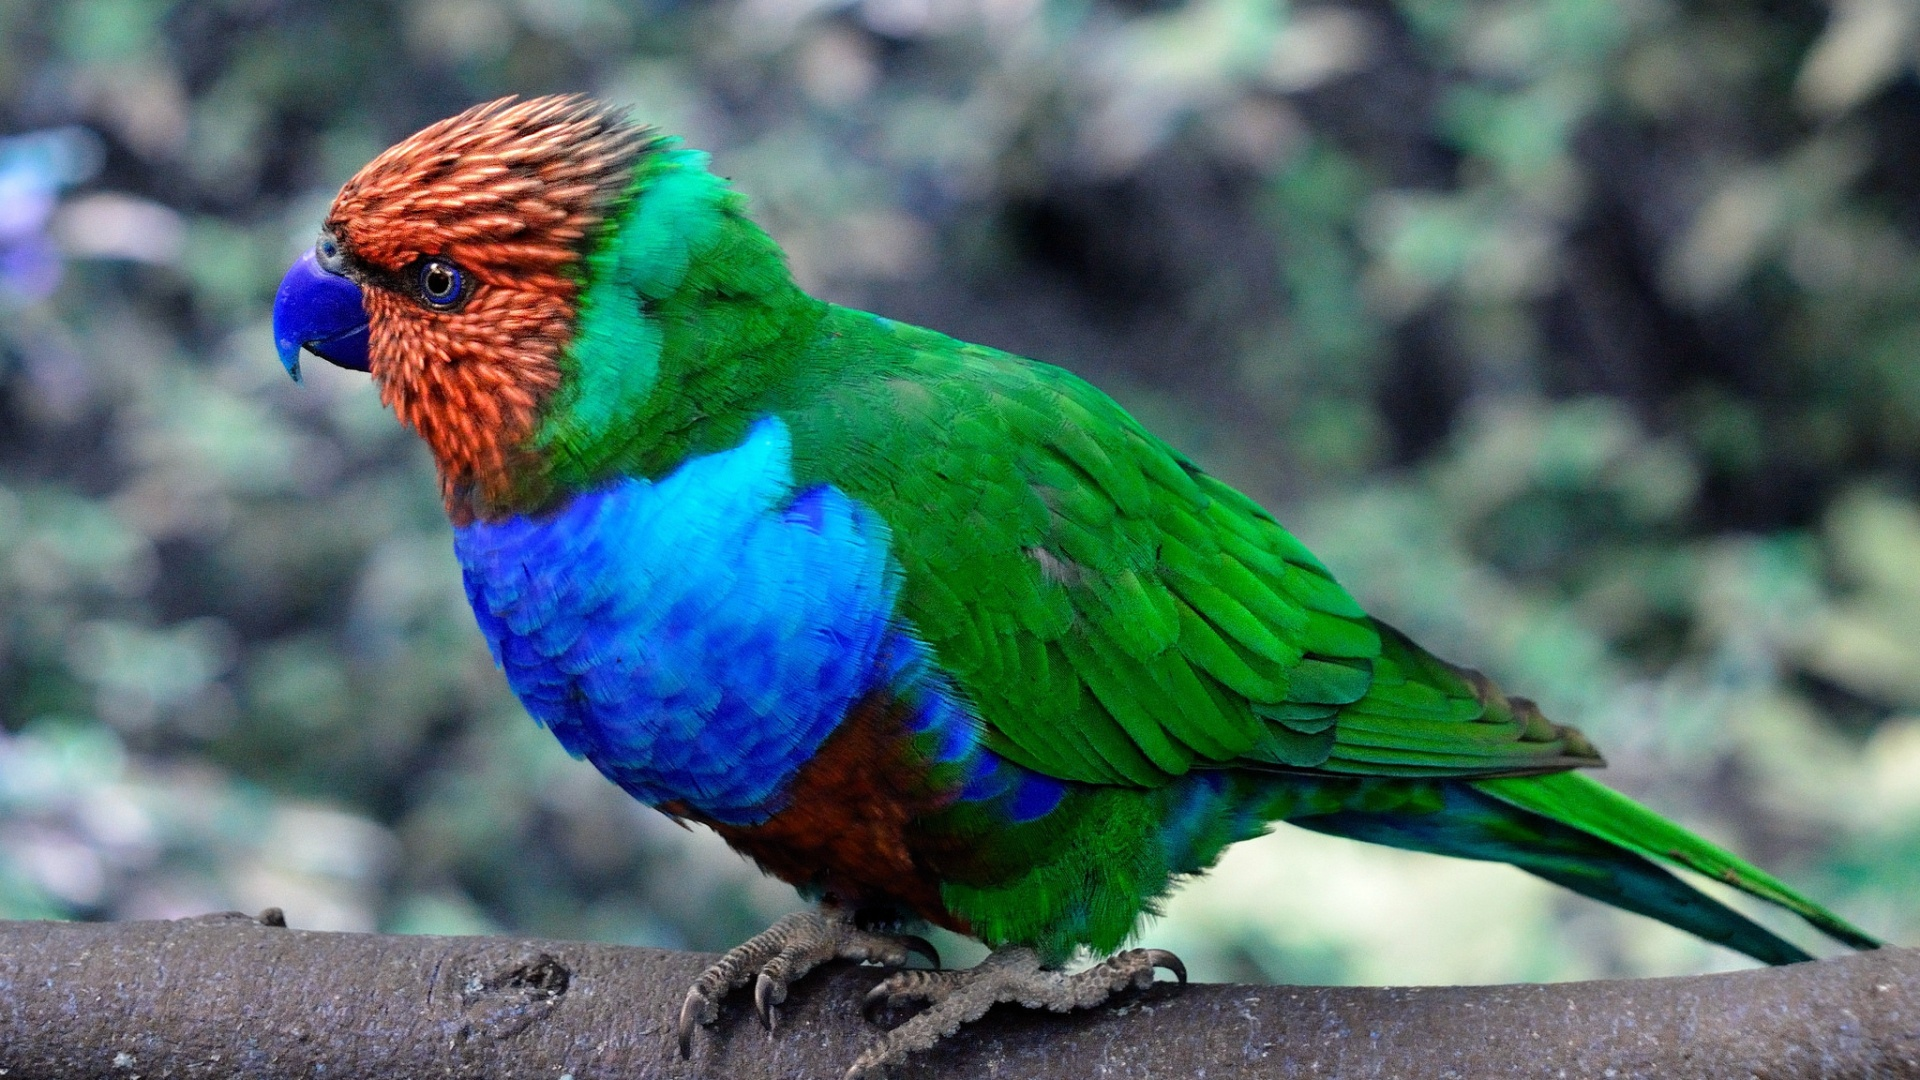
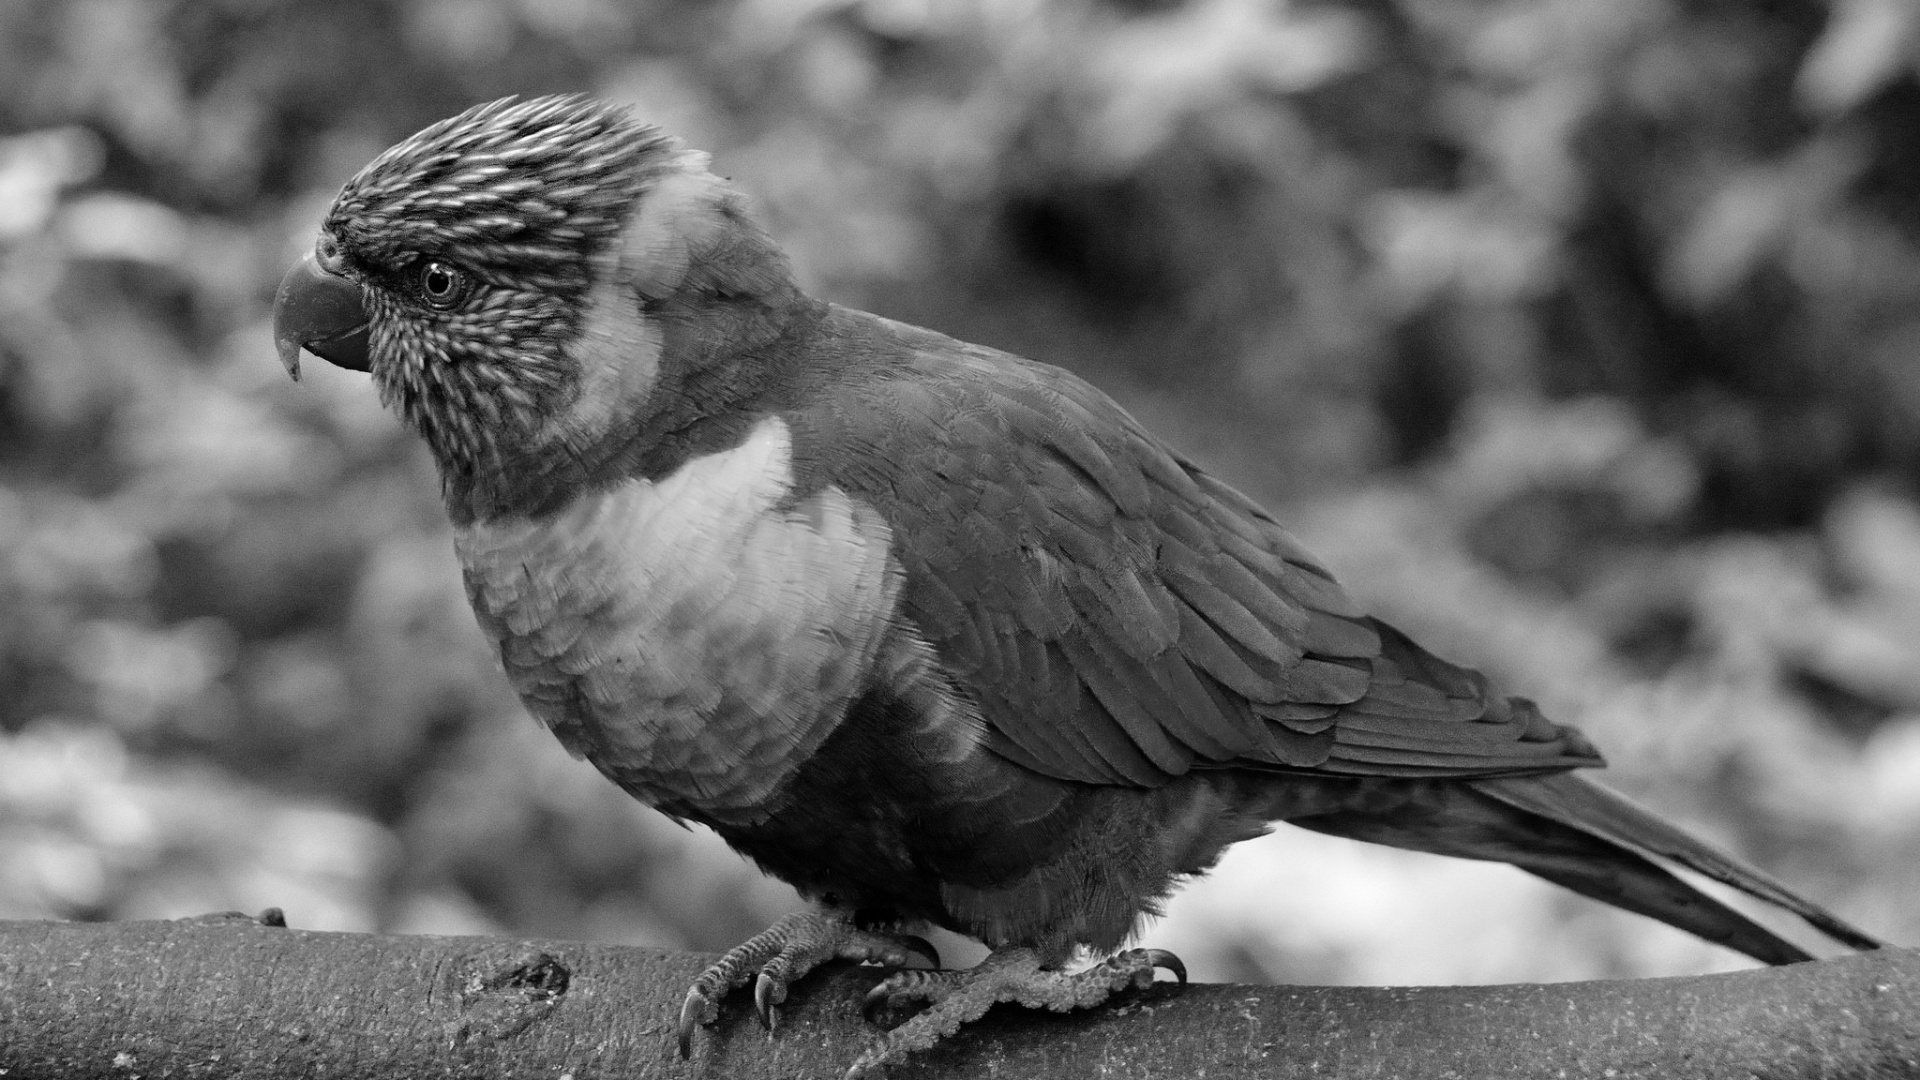
dad

diff --git a/OpenCV_Tutorial/input_output.py b/OpenCV_Tutorial/input_output.py
@@ -18,6 +18,13 @@ img = cv2.cvtColor(img,cv2.COLOR_RGB2BGR)
 cv2.imshow('image', img)
 cv2.waitKey(0)
 
+img = cv2.cvtColor(img,cv2.COLOR_RGB2GRAY)
+
+# visualize image
+cv2.imshow('image', img)
+cv2.waitKey(0)
+
+print(img.shape)
 
 #write image
 cv2.imwrite("OpenCV_Tutorial\\bird_out.jpg",img)
